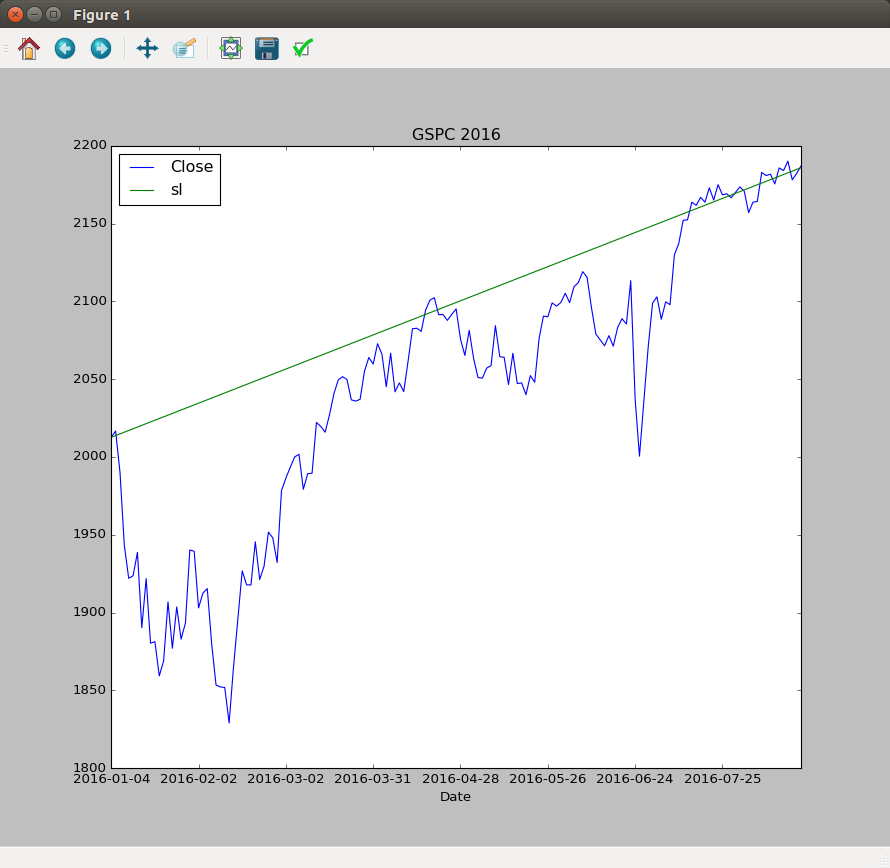
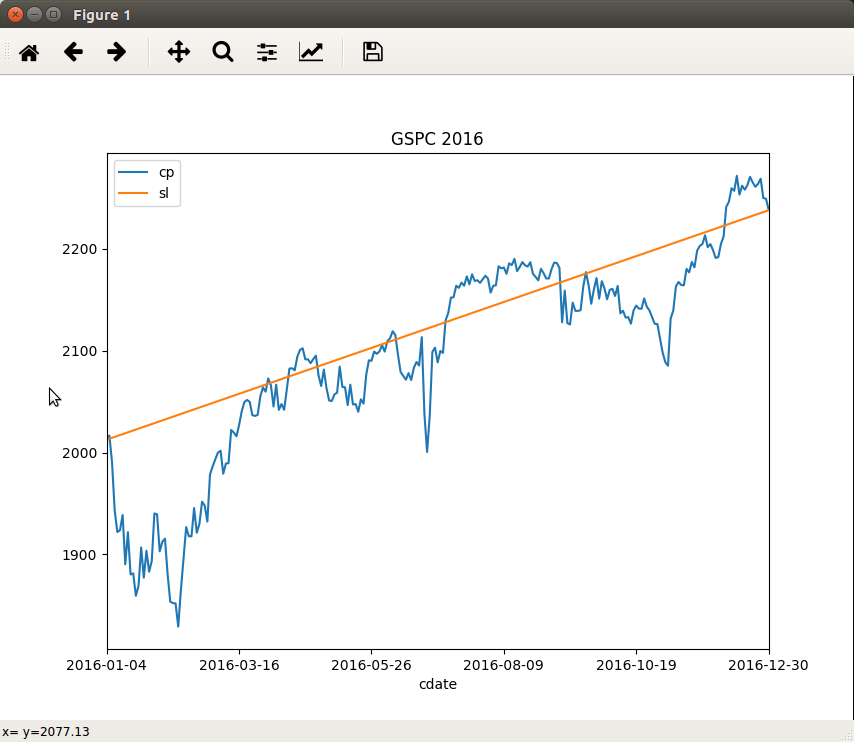
more

diff --git a/public/class03demos/class03p11.py b/public/class03demos/class03p11.py
@@ -1,15 +1,17 @@
-# class03p11.py
+"""
+class03p11.py
 
-# This script should use Pandas to plot prices of GSPC for 2016.
-# This script should Plot a straight line from first price to last price.
+This script should use Pandas to plot prices of GSPC for 2016.
+This script should Plot a straight line from first price to last price.
+"""
 
 import pandas as pd
 import matplotlib.pyplot as plt
 
-csvfile   = 'http://ichart.finance.yahoo.com/table.csv?s=%5EGSPC'
-cp_df     = pd.read_csv(csvfile).sort_values(['Date'])
-cp2016_sr = (cp_df.Date > '2016') & (cp_df.Date < '2017')
-cp2016_df = cp_df[['Date','Close']][cp2016_sr]
+csvfile   = 'http://spy611.herokuapp.com/csv/allpredictions.csv'
+cp_df     = pd.read_csv(csvfile).sort_values(['cdate'])
+cp2016_sr = (cp_df.cdate > '2016') & (cp_df.cdate < '2017')
+cp2016_df = cp_df[['cdate','cp']][cp2016_sr]
 
 # Algebra and Geometry say a line is described by
 # y = mx + b
@@ -22,12 +24,12 @@ cp2016_df = cp_df[['Date','Close']][cp2016_sr]
 # (x1-x0) is:
 x1x0_i = len(cp2016_df)
 # (y1-y0) is:
-y1y0_f = cp2016_df.iloc[-1].Close-cp2016_df.iloc[0].Close
+y1y0_f = cp2016_df.iloc[-1].cp-cp2016_df.iloc[0].cp
 
 # m, the slope is (y1-y0)/(x1-x0):
 m_f = y1y0_f / x1x0_i
 # And b is the y intercept:
-b_f = cp2016_df.iloc[0].Close
+b_f = cp2016_df.iloc[0].cp
 
 # My equation for straight line:
 def yval(x_in):
@@ -40,8 +42,8 @@ yvals_l = [ yval(x_i) for x_i in range(len(cp2016_df))]
 cp2016_df['sl'] = yvals_l
 
 # To make a better plot I should convert X-values from integers to series of strings:
-cpdate2016_df = cp2016_df.set_index(['Date'])
-# I should plot Close (closing price), and straight line:
+cpdate2016_df = cp2016_df.set_index(['cdate'])
+# I should plot cp (closing price), and straight line:
 cpdate2016_df.plot.line(title="GSPC 2016")
 plt.show()
 
